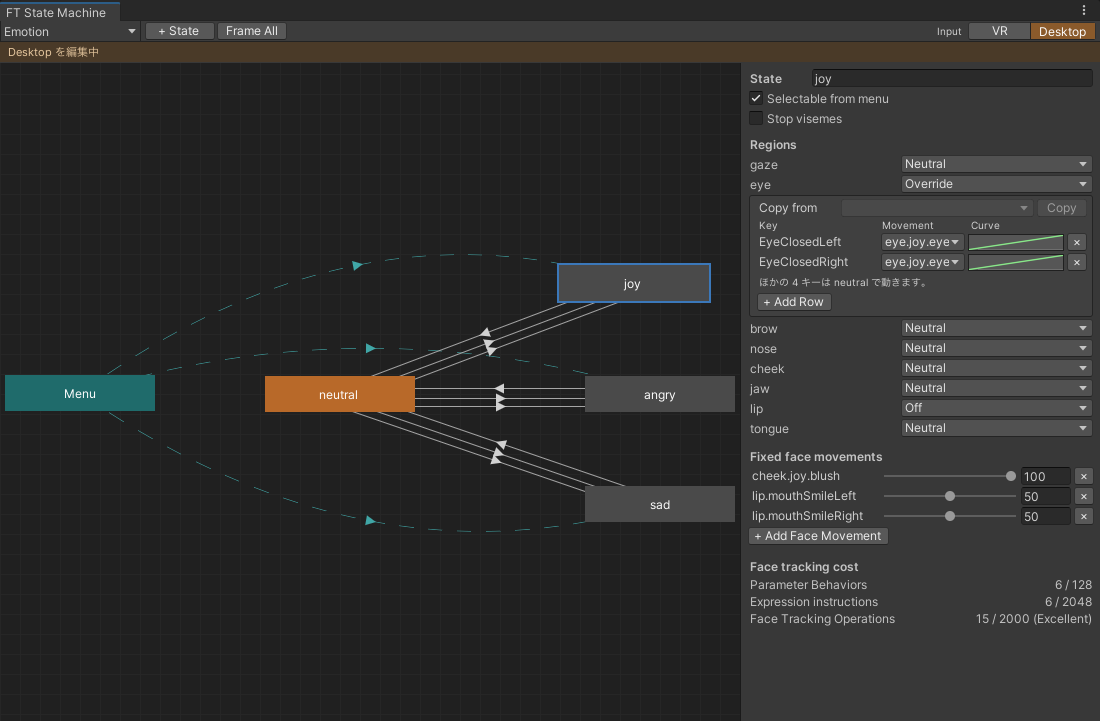
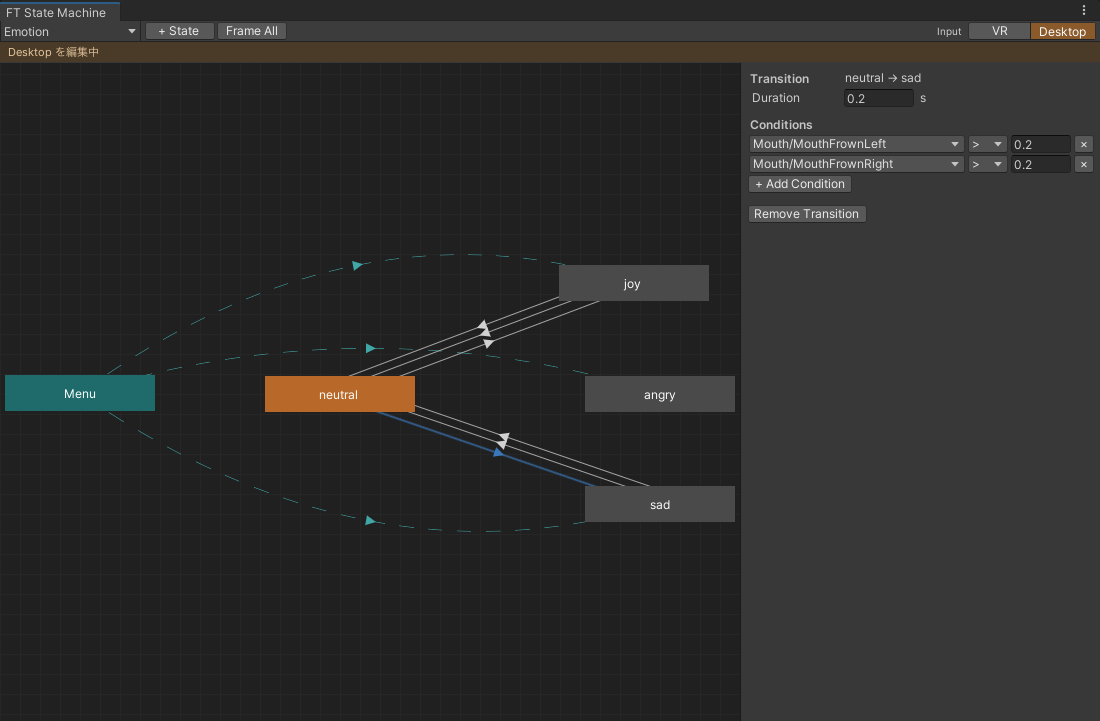
Templates: enter joy and sad with both sides, sad per device, angry from the menu only, and a default submenu
The old transitions entered with one side only and used the brows, which
few devices track. The manual and README describe the new ones.

diff --git a/Packages/dev.kmnk.face-tracking-generator/Documentation~/manual-ja/index.html b/Packages/dev.kmnk.face-tracking-generator/Documentation~/manual-ja/index.html
@@ -151,7 +151,7 @@ blockquote { margin: 1em 0; padding: 0 1em; color: var(--muted); border-left: 4p
 <li><strong>Open Settings Editor</strong> を押して設定エディタを開きます</li>
 <li><strong>Avatar</strong> タブで、アバターのプレハブを選び、<strong>Fill from Prefab</strong> を押します。顔のメッシュ、メニュー、同じ名前のシェイプキーを持つ顔の動き、空いている AFK のアニメーションの枠（アバター自身の AFK の層のクリップ）が埋まります（Undo で戻せます）</li>
 <li>一覧に <em>Not set</em> が残った顔の動きがあれば、シェイプキーを選びます</li>
-<li><strong>Menu</strong> で、FT と AFK のトグルの名前を決めます。サブメニューに入れたいときは、その名前を入れます（空ならメニューの直下）</li>
+<li><strong>Menu</strong> で、FT と AFK のトグルの名前と、それらを入れるサブメニューの名前（<strong>Submenu name (optional)</strong>、テンプレートの既定は <code>Face Tracking</code>）を確かめます。サブメニューの名前を空にすると、トグルと State Machine のサブメニューがアバターのメニューの直下に並び、アバターの元のメニューと混ざるので、名前を入れておくのがおすすめです</li>
 <li><strong>AFK animation (optional)</strong> を開き、AFK の間に再生するクリップを見ます。Fill from Prefab は、空いている枠をアバター自身の AFK の層のクリップで埋めます。<strong>Action Loop</strong> と <strong>FX Loop</strong> の 2 つがあれば AFK が作られ、AFK のトグルもメニューに入ります（Intro と Outro は空なら飛ばします）。AFK を作らないときは、Loop の枠を空にします</li>
 <li><strong>Save</strong> を押します</li>
 </ol>
@@ -195,11 +195,17 @@ blockquote { margin: 1em 0; padding: 0 1em; color: var(--muted); border-left: 4p
 <p><img src="images/face-view-joy.png" alt="Face view の喜びの顔"></p>
 <p>部位の <strong>Off</strong> は、その部位の neutral の動きを止めます。<strong>Don't move</strong> の行は、そのキーで何も動かしません。<strong>Copy from</strong> で、別の状態の行を写せます。</p>
 <h3 id="遷移の条件を変える">遷移の条件を変える</h3>
-<p>テンプレートの喜びは、<code>MouthCornerPullLeft</code> か <code>MouthCornerPullRight</code> が 0.5 を超えると入り、両方が 0.4 を下回ると出ます。</p>
+<p>テンプレートの遷移は、入り方の 3 つの見本になっています。</p>
+<ul>
+<li>joy: <code>MouthCornerPullLeft</code> と <code>MouthCornerPullRight</code> の両方が 0.8 を超えると入り、どちらかが 0.6 を下回ると出ます。片方だけで入る形にすると、話すときなどに入ってしまいやすいためです</li>
+<li>sad: <code>MouthFrownLeft</code> と <code>MouthFrownRight</code> で同じ形にし、値を機器ごとに分けています（VR は 0.6 で入り 0.4 で出る、デスクトップは 0.2 で入り 0.1 で出る）。デスクトップの Selfie Expression は VR の機器より値が小さく出るためです</li>
+<li>angry: 遷移を持たず、メニューから選ぶだけです。眉を取れる機器が少なく、唇をすぼめるキーは話すだけでも上がるためです</li>
+</ul>
+<p>値は作者の記録から決めた目安です。FT Measure で自分の顔を測り、Devices タブで値の幅を見て直してください（「<a href="#ft-measure-%E3%81%A7%E5%80%A4%E3%81%AE%E5%B9%85%E3%82%92%E8%A6%8B%E3%82%8B">FT Measure で値の幅を見る</a>」）。</p>
 <ol>
 <li>遷移（状態の間の線）を選びます</li>
 <li>条件の値（<a href="#%E7%94%A8%E8%AA%9E%E9%9B%86">しきい値</a>）を変えます。入りにくければ下げ、入りすぎるなら上げます</li>
-<li>左右どちらかで入る形は、同じ状態の間に遷移を 2 本作ります（1 本の遷移の条件はすべて満たす必要があるため）</li>
+<li>1 本の遷移の条件は、すべて満たしたときに移ります（joy の入り方）。どれか 1 つで移る形は、同じ状態の間に遷移を条件ごとに作ります（joy の出方）</li>
 </ol>
 <p><img src="images/state-machine-transition.png" alt="遷移を選んだ State Machine の窓"></p>
 <p>うまくいくと、右に <strong>Conditions</strong> と条件の値が出て、変えた値が Preview の状態の切り替わりに反映されます。</p>
@@ -430,7 +436,7 @@ blockquote { margin: 1em 0; padding: 0 1em; color: var(--muted); border-left: 4p
 </tr>
 <tr>
 <td>Submenu name (optional)</td>
-<td>トグルを入れるサブメニューの名前。空ならメニューの直下</td>
+<td>トグルと State Machine のサブメニューを入れるサブメニューの名前。テンプレートの既定は <code>Face Tracking</code>。空ならメニューの直下</td>
 </tr>
 <tr>
 <td>AFK animation (optional)</td>

diff --git a/README.md b/README.md
@@ -70,7 +70,7 @@ NDMF's **Manual Bake** does not work with this tool: it stops with an error and 
 
 ## Settings
 
-`Packages/dev.kmnk.face-tracking-generator/Templates/` has templates of the two tables. The default expression table moves the 52 perfect sync (ARKit) blendshapes in neutral, as face movements named `<region>.<ARKit name>` (e.g. `eye.eyeBlinkLeft`, `jaw.jawOpen`); **Fill from Prefab** fills their blendshapes from the avatar's blendshapes with the same name (the last part of the name), without regard to capitals. It also has the state machine `Emotion` with the empty states joy, angry and sad, moved by the tracking keys `MouthCornerPull*`, `BrowLowerer*` and `MouthFrown*` (left or right over 0.5 enters, both under 0.4 leaves) and selectable from the menu: add overrides and fixed movements for your avatar in the State Machine window. How perfect sync, VRChat's Face Tracking section and the generator correspond, with sources: `Packages/dev.kmnk.face-tracking-generator/Documentation~/perfect-sync.md` (`scripts/check-perfect-sync.py` checks the template against it).
+`Packages/dev.kmnk.face-tracking-generator/Templates/` has templates of the two tables. The default expression table moves the 52 perfect sync (ARKit) blendshapes in neutral, as face movements named `<region>.<ARKit name>` (e.g. `eye.eyeBlinkLeft`, `jaw.jawOpen`); **Fill from Prefab** fills their blendshapes from the avatar's blendshapes with the same name (the last part of the name), without regard to capitals. It also has the state machine `Emotion` with the empty states joy, angry and sad, selectable from the menu: joy enters when both `MouthCornerPull` keys are over 0.8 and leaves when either is under 0.6; sad does the same with `MouthFrown` and values per device (VR 0.6 and 0.4, desktop 0.2 and 0.1, as desktop tracking moves it much less); angry has no transitions and is chosen from the menu only, as few devices track the brows. The values are a start: read your own ft-measure recordings in the Devices tab and change them: add overrides and fixed movements for your avatar in the State Machine window. How perfect sync, VRChat's Face Tracking section and the generator correspond, with sources: `Packages/dev.kmnk.face-tracking-generator/Documentation~/perfect-sync.md` (`scripts/check-perfect-sync.py` checks the template against it).
 Your copies are in `Assets/Kmnk/FaceTrackingGenerator/Settings/`, outside the package. Updating the package replaces its folder in `Packages/` and does not touch them. Do not put your own files in `Packages/dev.kmnk.face-tracking-generator/`: they are removed on update.
 
 ## Expressions

diff --git a/docs/manual-ja/CAPTURES.md b/docs/manual-ja/CAPTURES.md
@@ -17,7 +17,7 @@ Images must not show the names of a bought avatar's blendshapes, meshes or asset
 | `face-view-joy.png` | the Face view window that the `state-machine.png` run writes next to it (`<out>.faceview.png`) | none |
 | `generator-check.png` | `-ftWindow generator -ftTable <table> -ftHelp ja -ftAvatarName MyAvatar -ftChooseAvatar none -ftGenPress check -ftSize 560x900`, top 560x380 kept | none |
 | `state-machine-transition.png` | `-ftWindow statemachine -ftTable <table> -ftHelp ja -ftSmMachine Emotion -ftSmSelect 'neutral->joy' -ftSize 1100x700` | none |
-| `state-machine-desktop.png` | `-ftWindow statemachine -ftTable <table> -ftHelp ja -ftSmMachine Emotion -ftSmDevice desktop -ftSmSelect joy -ftSize 1100x700` | none |
+| `state-machine-desktop.png` | `-ftWindow statemachine -ftTable <table> -ftHelp ja -ftSmMachine Emotion -ftSmDevice desktop -ftSmSelect 'neutral->sad' -ftSize 1100x700` | none |
 | `devices-tab.png` | `-ftTable <table> -ftTab devices -ftHelp ja -ftSize 560x700`, top 560x200 kept | none |
 | `generator-avatar.png` | `-ftWindow generator -ftTable <table> -ftHelp ja -ftAvatarName MyAvatar -ftOpenScene <scene> -ftChooseAvatar <avatar> -ftSize 560x900`, top 560x335 kept | the Avatar in scene field (the avatar's name) |
 | `devices-recorded.png` | the settings with two real ft-measure recordings added to `"measurements"` (VR and desktop), `-ftTable <table> -ftTab devices -ftHelp ja -ftDevicesSide vr -ftDevicesFace mouth_smile -ftSize 560x1000`, top 560x515 kept | none |
